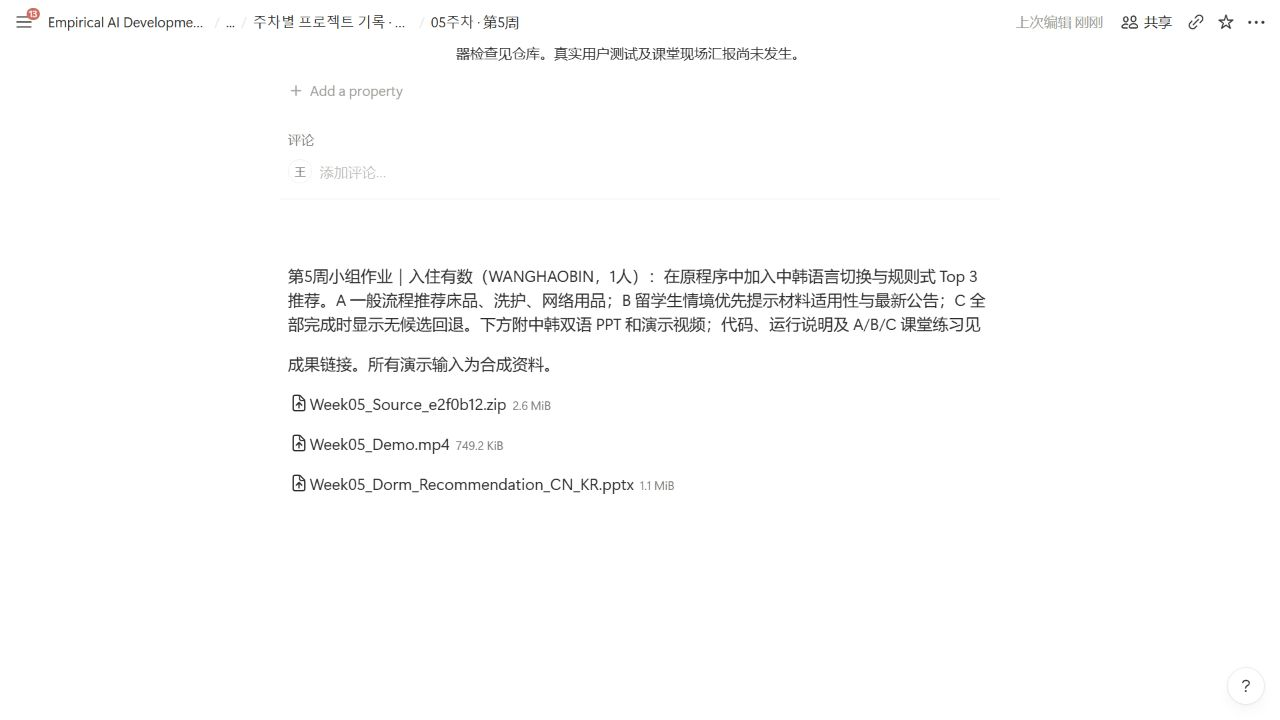
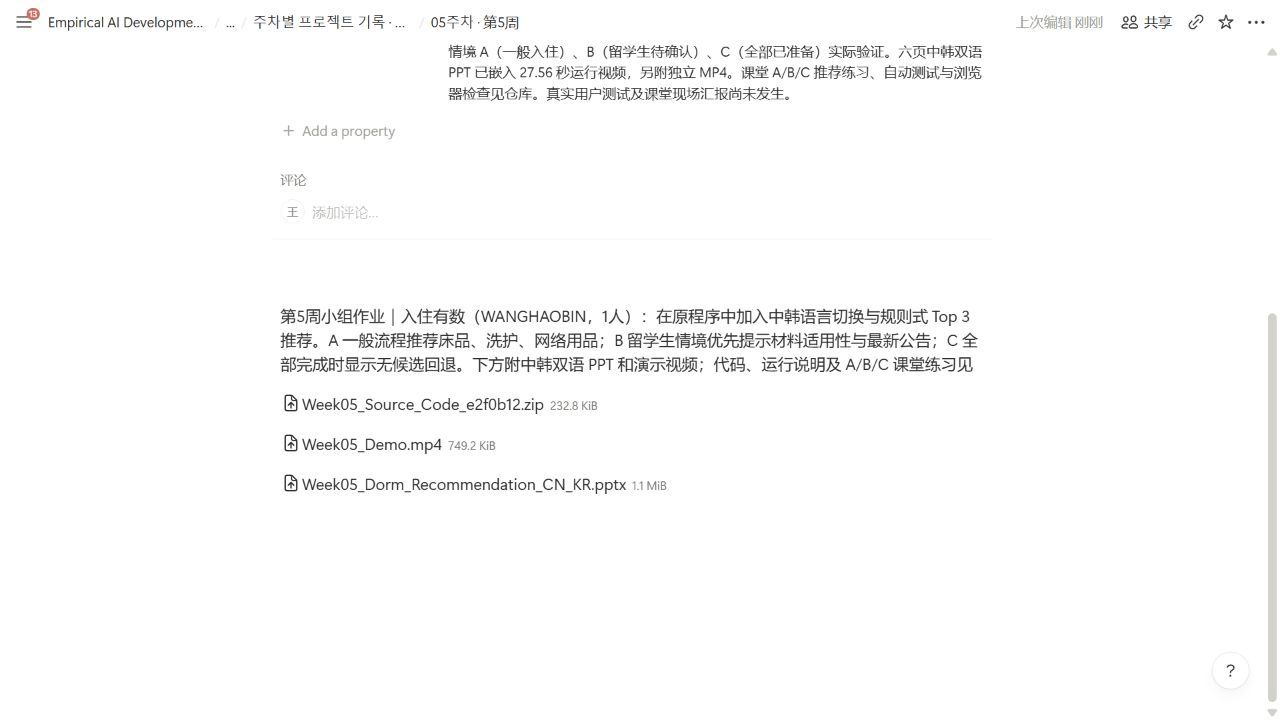
Week 05: 核验课程附件与线上链接

diff --git a/docs/submission/2026-10-08/TEAM_WEEK05_SUBMISSION.md b/docs/submission/2026-10-08/TEAM_WEEK05_SUBMISSION.md
@@ -5,12 +5,12 @@
 ## 课程卡
 
 - [05주차 · 第5周](https://app.notion.com/p/05-5-bf47c00fe5ad827e881201f714c87e53) 已填写本周任务、进展和成果字段，状态为 `완료 · 已完成`。重新打开页面后仍能看到这些内容及三份附件。
-- 页面附件：`Week05_Dorm_Recommendation_CN_KR.pptx`（1.1 MiB，六页中韩双语，内嵌视频）、`Week05_Demo.mp4`（749.2 KiB）、`Week05_Source_e2f0b12.zip`（2.6 MiB，来自本地 Git 提交 `e2f0b12` 的第 5 周源码、材料与测试）。源码包经检查无 `.env`、`.venv`、私钥路径；本机密钥未上传。
+- 页面附件：`Week05_Dorm_Recommendation_CN_KR.pptx`（1.1 MiB，六页中韩双语，内嵌视频）、`Week05_Demo.mp4`（749.2 KiB）、`Week05_Source_Code_e2f0b12.zip`（232.8 KiB，来自 Git 提交 `e2f0b12` 的 48 个源码、文档、测试和文字证据文件；图片与视频由另两份附件及 GitHub 仓库提供）。源码包经检查无 `.env`、`.venv`、私钥路径；本机密钥未上传。
 - [状态与成果字段截图](Week05_Notion_Submitted.png)；[正文及三份附件截图](Week05_Notion_Attachments.png)。截图仅证明页面登记与附件存在，不表示教师批阅、课堂汇报或真实用户测试完成。
 
 ## GitHub 同步
 
-本地提交 `e2f0b12` 已创建并通过 59 项离线测试。向 `origin/main` 和新分支推送均被 GitHub 远端返回 `Internal Server Error`；`git ls-remote` 可读，`git push --dry-run` 通过，实际 GitHub 仓库当前仍停留在 `2e1a156`。课程卡成果字段已明确标注“远端暂未同步”，并用页面附件提供可核验的完整第 5 周源码包。待远端恢复后推送本地提交，再将课程卡更新为指向新提交的链接并重新核验。
+第 5 周功能提交 `e2f0b12` 与本提交记录 `86792d7` 已推送到 `origin/main`；随后 `git ls-remote origin refs/heads/main` 与本地 HEAD 一致。推送期间 GitHub 远端曾多次返回 `Internal Server Error`，重试后成功。课程卡成果字段现已改为[第 5 周代码与运行说明](https://github.com/ChenMengLR/AI_Project_2026_2/tree/main/week05_recommendation)和[提交记录](https://github.com/ChenMengLR/AI_Project_2026_2/blob/main/docs/submission/2026-10-08/TEAM_WEEK05_SUBMISSION.md)的稳定链接；源码 ZIP 仍作为课程页面内的独立备份。
 
 ## 本地成果
 

diff --git a/docs/status/Week05_STATUS.md b/docs/status/Week05_STATUS.md
@@ -27,4 +27,4 @@
 - 用合成韩文输入实际调用本机 Qwen 的状态理解与规则问答：识别床品已准备、洗护用品未准备，并以韩语回答电热毯问题且附韩文官方来源。输入、输出见 `week05_recommendation/evidence/2026-10-08_Korean_AI_Check.json`；这不构成模型质量的广泛评估。
 - 真实用户测试、教师对一人项目的确认和课堂现场汇报尚未发生。国际生具体材料及替代关系仍需补充可追溯的官方依据；当前功能保留待确认，不验证证件真实性或入住资格。
 - 第 5 周 [Notion 小组卡](https://app.notion.com/p/05-5-bf47c00fe5ad827e881201f714c87e53) 已填写任务、进展、成果并标记 `완료 · 已完成`；中韩双语 PPT、独立 MP4 和不含密钥的第 5 周源码 ZIP 三份附件在新页面中均可见。[提交记录与截图](../submission/2026-10-08/TEAM_WEEK05_SUBMISSION.md)保存了核验证据。
-- 本地提交 `e2f0b12` 已创建；向 GitHub `origin/main` 及新分支推送时，远端均返回 `Internal Server Error`。课程卡已写明远端未同步，源码包作为可审阅的备用交付；待恢复后需推送并更新课程卡中的准确提交链接。不能把当前仓库 `main` 链接称为第 5 周线上代码。
+- 第 5 周功能提交 `e2f0b12` 及课程提交记录已推送到 GitHub `origin/main`，远端 SHA 与本地核对一致；课程卡成果字段已更新为[线上第 5 周代码](https://github.com/ChenMengLR/AI_Project_2026_2/tree/main/week05_recommendation)和提交记录。推送期间曾出现远端 `Internal Server Error`，重试后恢复；源码 ZIP 仍作为课程页面附件备份。

diff --git a/HANDOFF.md b/HANDOFF.md
@@ -2,7 +2,7 @@
 
 ## 2026-10-08 第 5 周推荐与中韩双语
 
-原 `week03_dorm_assistant/` 已加入中文／韩语切换及确定性的 Top 3 下一步推荐；在 `week05_recommendation/` 保存课程独立 A/B/C Qwen 练习、两种宿舍模拟情境的实际界面结果、空候选回退、独立 MP4 和已嵌入视频的中韩双语 PPT。完整进度、59 项离线测试和限制见 [`docs/status/Week05_STATUS.md`](docs/status/Week05_STATUS.md)。第 5 周 Notion 卡已登记并附 PPT、视频、源码 ZIP；[提交记录](docs/submission/2026-10-08/TEAM_WEEK05_SUBMISSION.md)有刷新核验截图。GitHub 远端暂拒绝推送，本地提交仍须补推并更新课程卡链接。资料仍不能确认留学生具体材料及替代关系，真实用户测试未开展。
+原 `week03_dorm_assistant/` 已加入中文／韩语切换及确定性的 Top 3 下一步推荐；在 `week05_recommendation/` 保存课程独立 A/B/C Qwen 练习、两种宿舍模拟情境的实际界面结果、空候选回退、独立 MP4 和已嵌入视频的中韩双语 PPT。完整进度、59 项离线测试和限制见 [`docs/status/Week05_STATUS.md`](docs/status/Week05_STATUS.md)。第 5 周 Notion 卡已登记并附 PPT、视频、源码 ZIP；[提交记录](docs/submission/2026-10-08/TEAM_WEEK05_SUBMISSION.md)有刷新核验截图。GitHub `origin/main` 已同步，课程卡链接已更新。资料仍不能确认留学生具体材料及替代关系，真实用户测试未开展。
 
 ## 2026-09-30 新增一人项目
 
